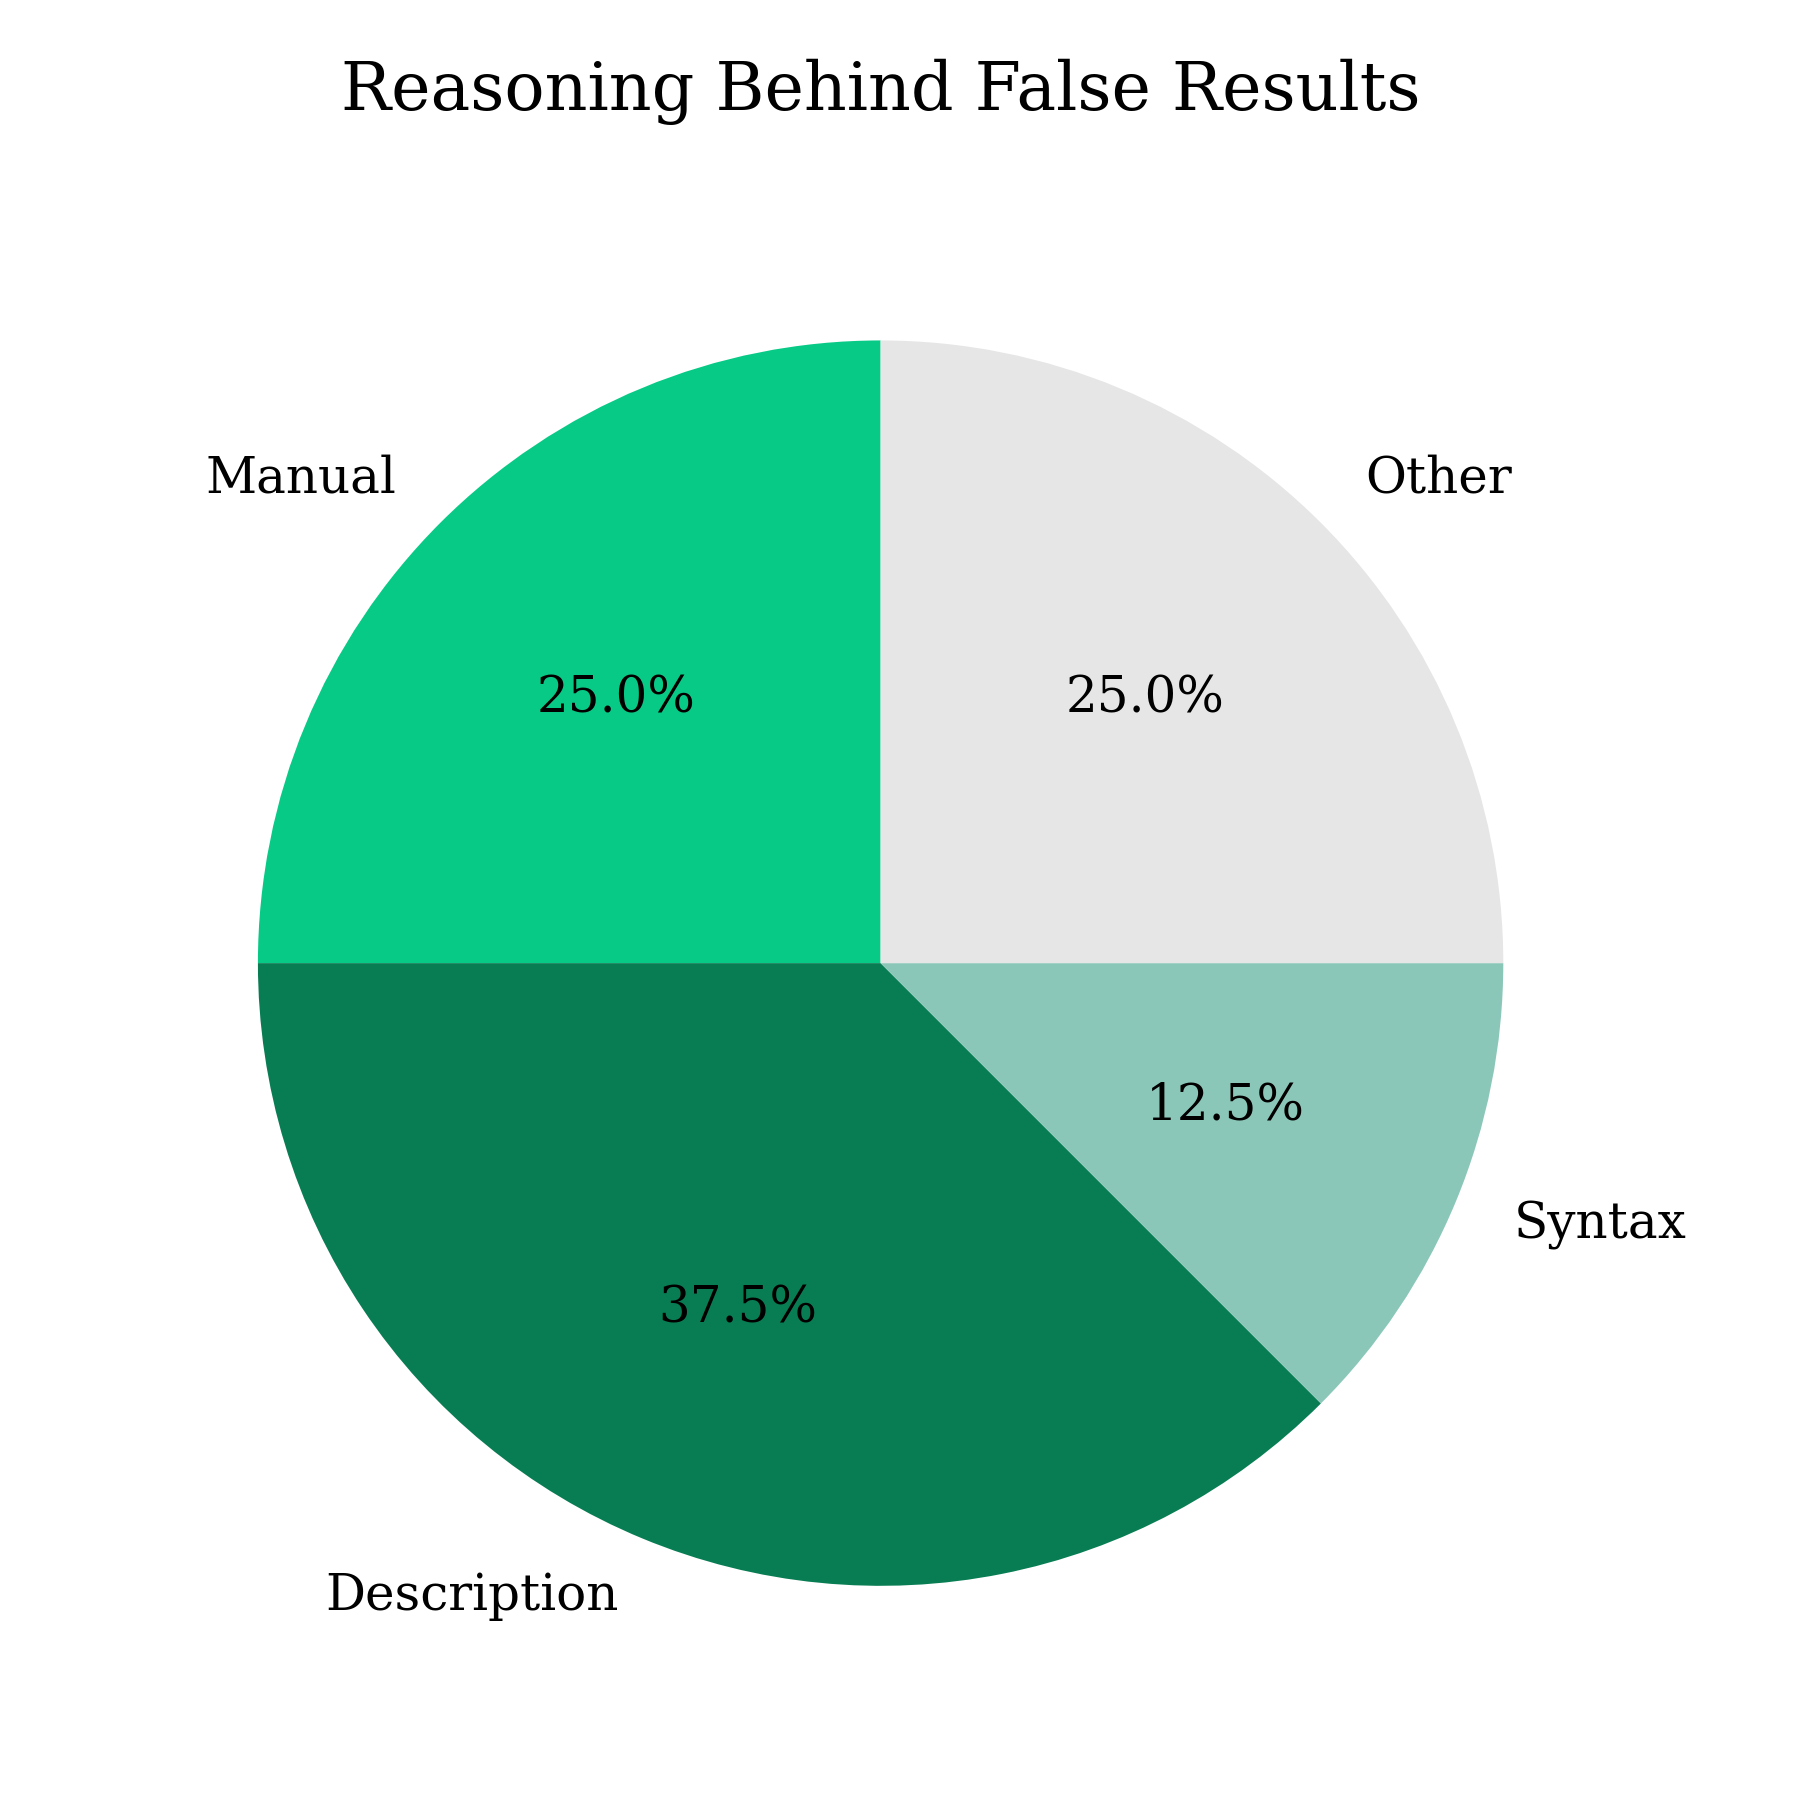
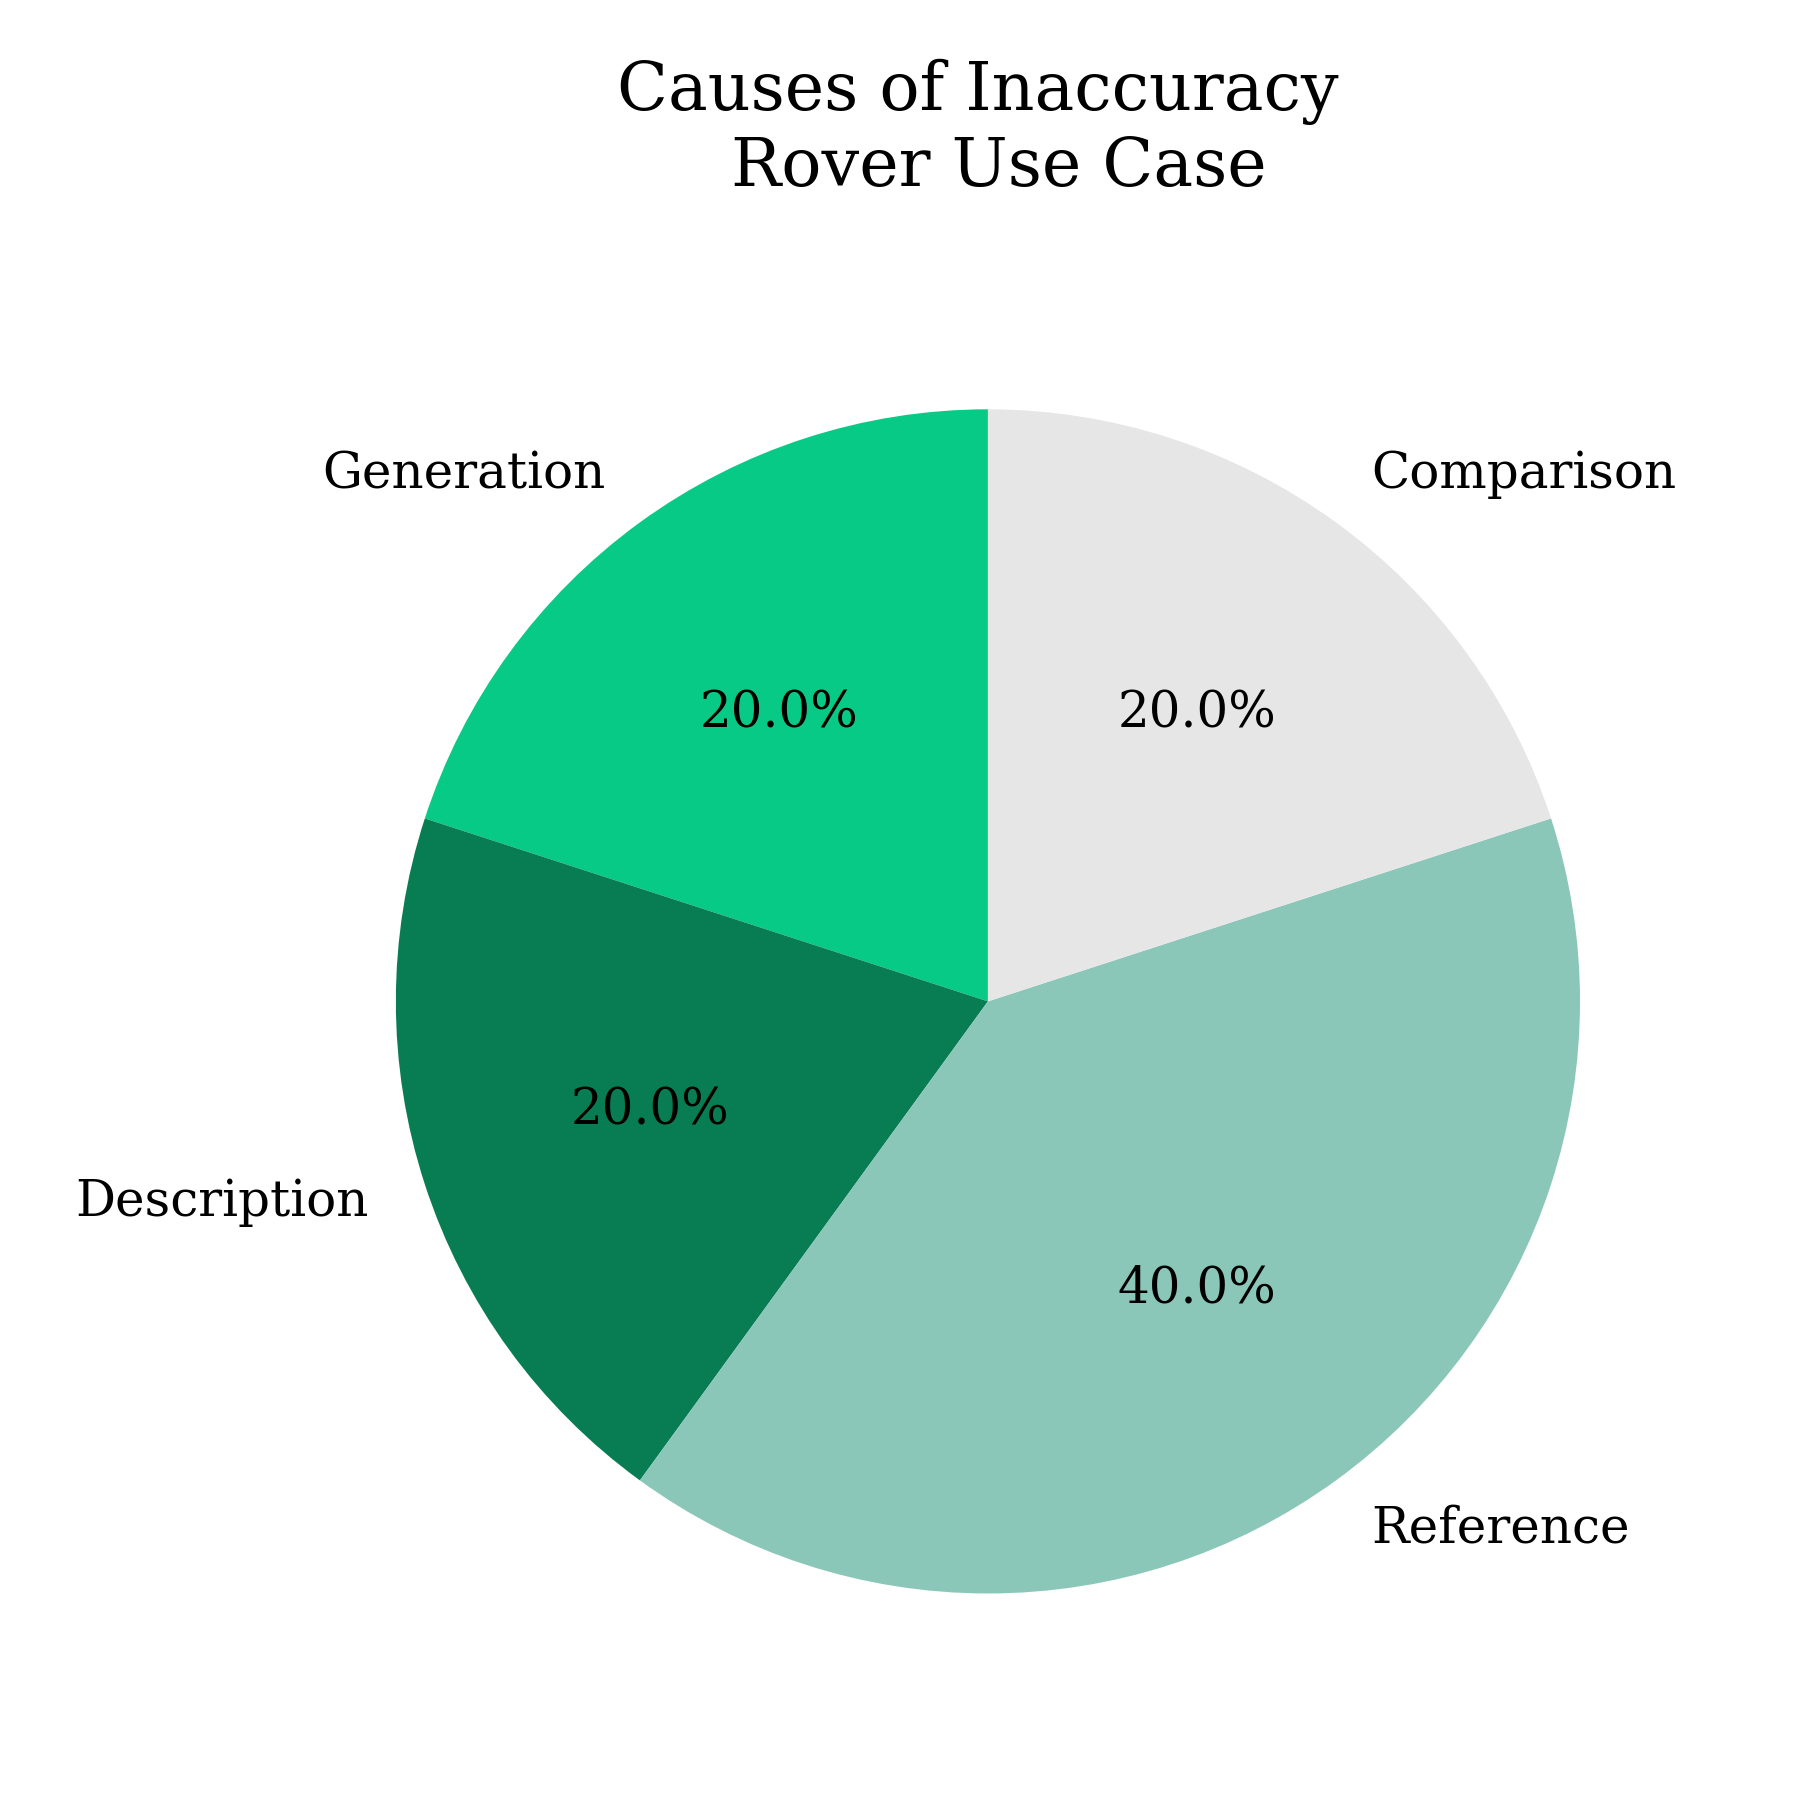
Manual pie plot code and generation of figure for manual control of reasoning behind inaccuracy.

diff --git a/manualPiePlot.py b/manualPiePlot.py
@@ -25,11 +25,11 @@ os.makedirs(out_dir, exist_ok=True)
 # Pie Chart (NMBU Colors)
 # ----------------------------
 
-TITLE = "Reasoning Behind False Results"
-value1 = 4
-value2 = 6
+TITLE = "Causes of Inaccuracy \n Rover Use Case"
+value1 = 1
+value2 = 1
 value3 = 2
-value4 = 4
+value4 = 1
 
 NMBU_GREEN = "#07CA86"       # Primary green
 NMBU_DARK_GREEN = "#087D54"  # For accuracy bar
@@ -41,7 +41,7 @@ NMBU_GREY_DARK = "#4D4D4D"
 
 fig, ax = plt.subplots(figsize=(6, 6))
 
-labels = ['Manual', 'Description', 'Syntax', 'Other']
+labels = ['Generation', 'Description', 'Reference', 'Comparison']
 myexplode = [0, 0, 0, 0]
 sizes = [value1, value2, value3, value4]
 colors = [NMBU_GREEN,NMBU_DARK_GREEN, NMBU_LIGHT_GREEN, NMBU_GREY_LIGHT]
